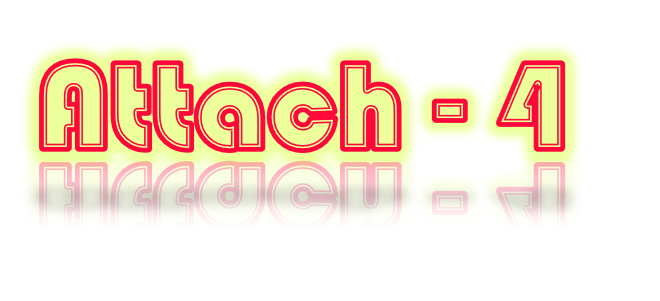
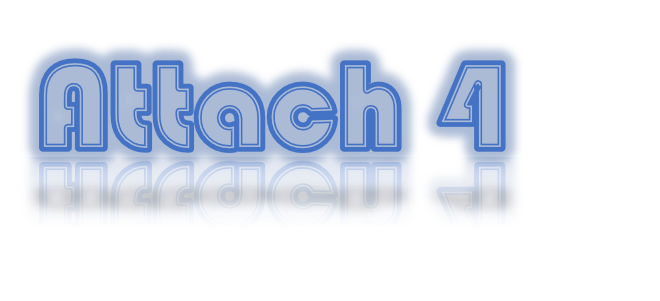
Update background color and game title
The backround colour was previously too strong of a colour
since it blended with the red tiles that will be used for the
game board.

diff --git a/src/gui.py b/src/gui.py
@@ -79,7 +79,7 @@ class Gui:
         """
         self.menu = self.make_game
         self.buttons.clear()
-        self.screen.fill((255, 255, 255))
+        self.screen.fill((184, 205, 255))
         self.screen.blit(self.p1, (208, 0))
         self.screen.blit(self.p2, (408, 0))
         self.screen.blit(self.board, (-1, 128))
@@ -88,8 +88,8 @@ class Gui:
         """
         Creates the main menu page, with included buttons
         """
-        self.screen.fill((255, 50, 50))
-        self.screen.blit(self.game_title, (50, self.height//8))
+        self.screen.fill((184, 205, 255))
+        self.screen.blit(self.game_title, (75, self.height//8))
 
         start_game_button = Button(Rect(self.width / 2 - 50,
                                         self.height / 2 - 10, 100, 20),
